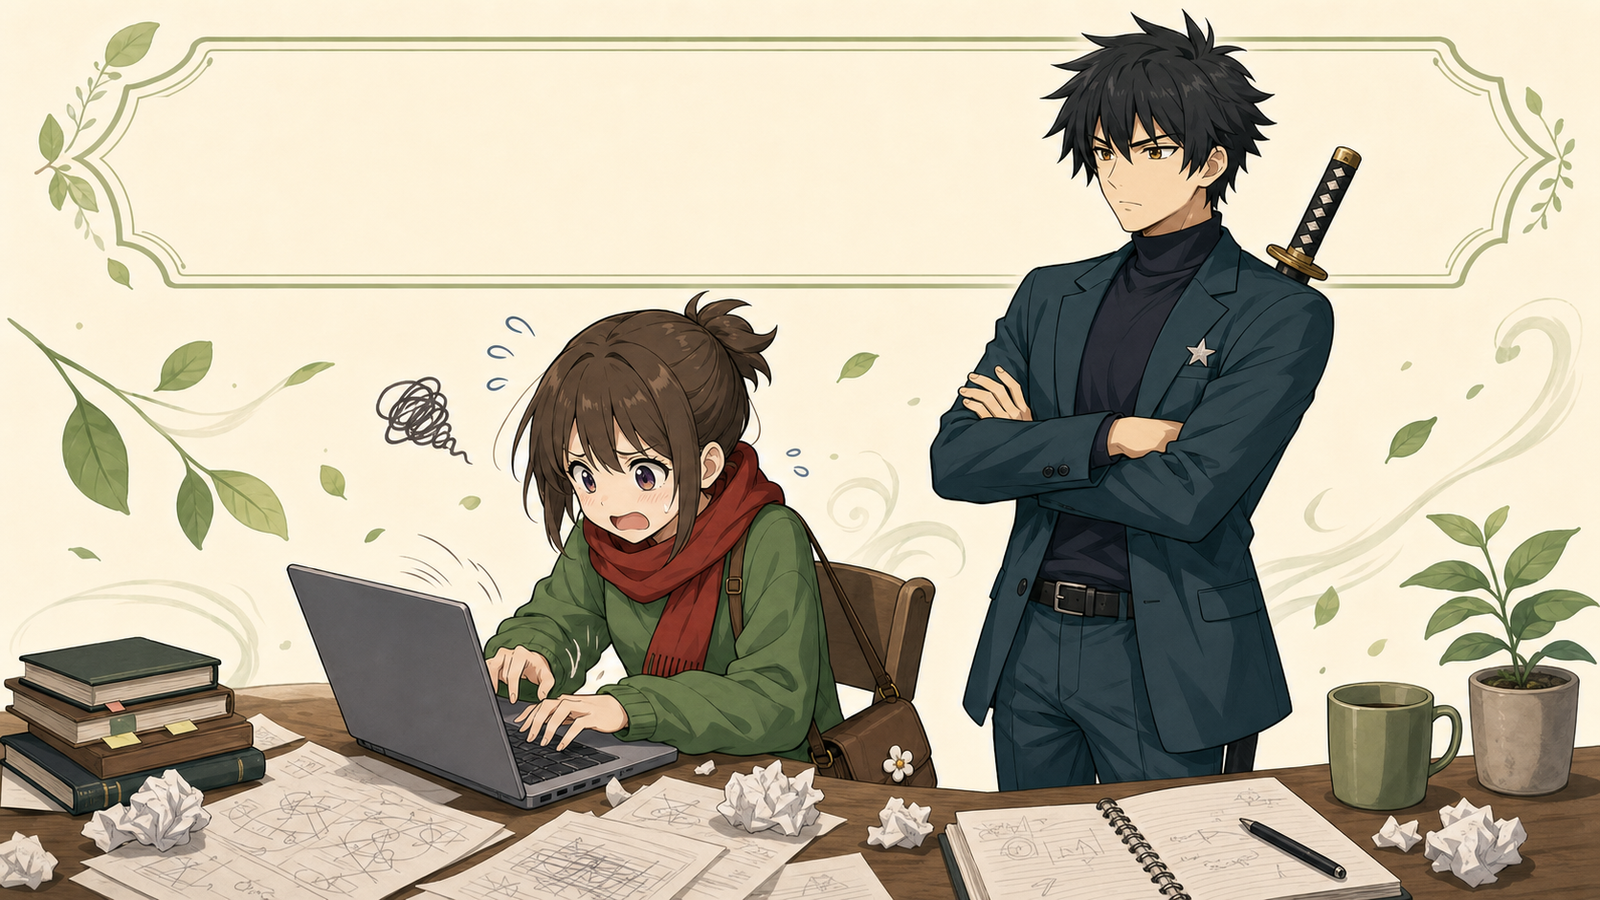
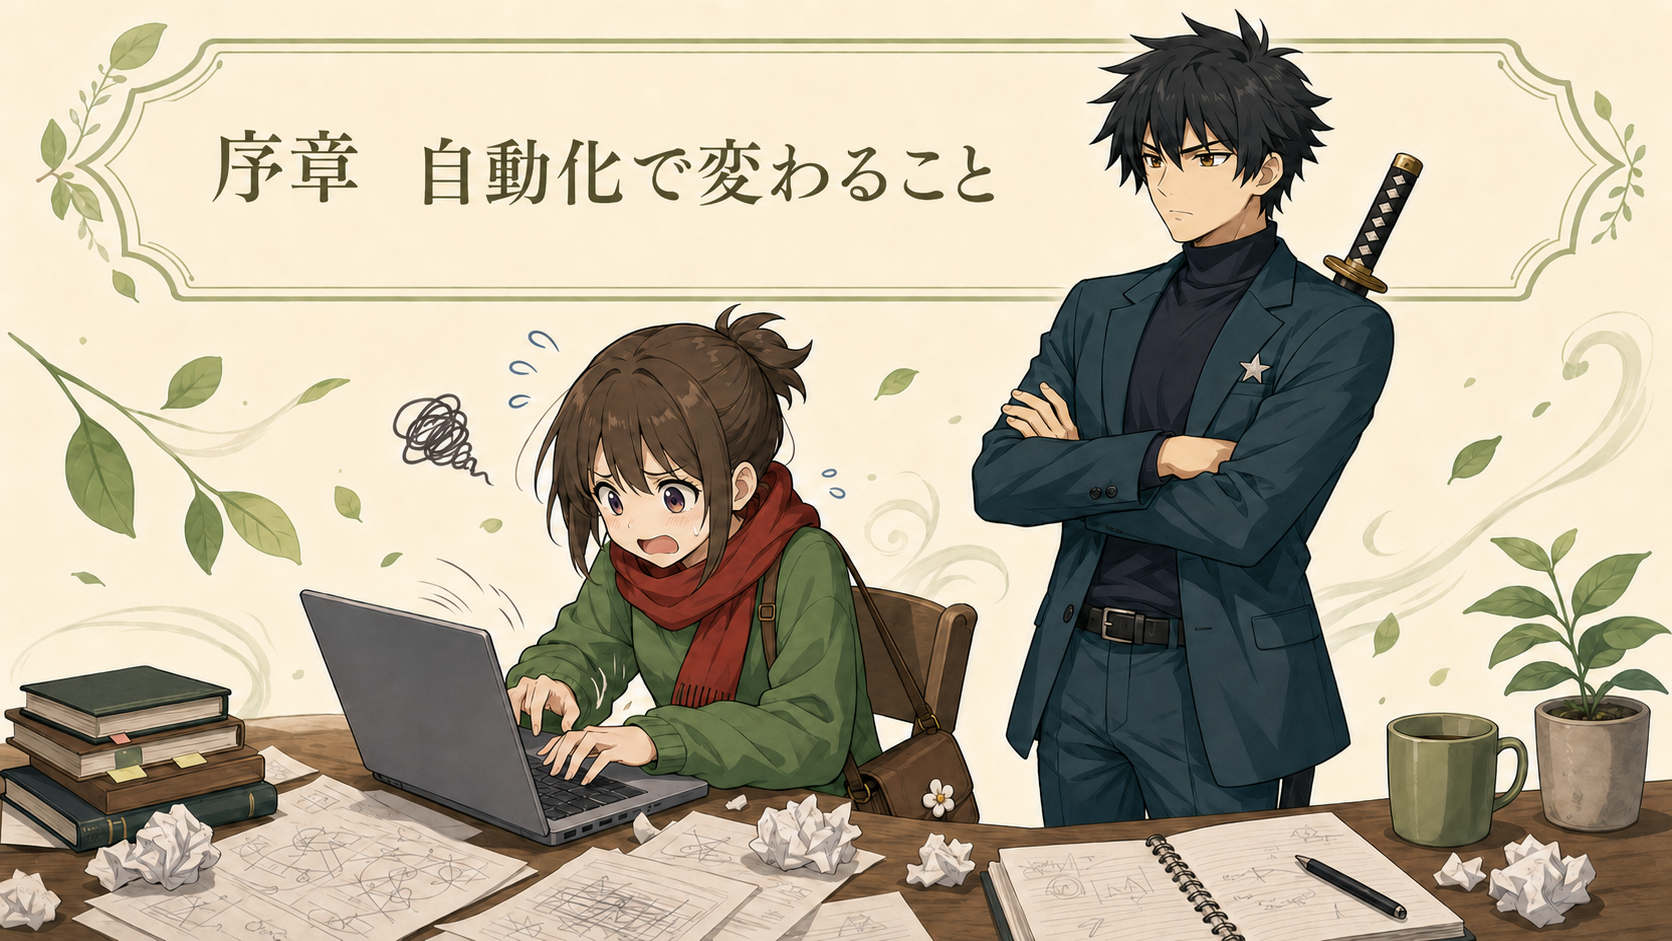
前半章扉絵を最新画像に戻す

diff --git a/textbook.html b/textbook.html
@@ -364,7 +364,7 @@
 <main>
 <section class="chapter" id="序章"><div class="chapter-label">序章</div><h1 class="chapter-title">自動化で変わること</h1><h1 id="序章-序章-昨日もやった「あの作業」を、自動化する話">序章　昨日もやった「あの作業」を、自動化する話</h1>
 <p>ステータス：✅ 実証済み</p>
-<p><img alt="序章：自動化で変わること" src="images/joshou/chapter-hero-joshou.png?v=20260603b" loading="lazy" decoding="async" /></p>
+<p><img alt="序章：自動化で変わること" src="images/joshou/chapter-hero-joshou.png?v=20260605-joshou" loading="lazy" decoding="async" /></p>
 <hr />
 <h2 id="序章-昨日もやった「あの作業」のチリツモ">昨日もやった「あの作業」のチリツモ...</h2>
 <p>管理画面を開く。<br />
@@ -744,7 +744,7 @@ AIに何を渡せばいいか。<br />
 まず環境構築を見ていきましょう。</p>
 <hr /></section>
 <section class="chapter" id="特典"><div class="chapter-label">購入特典</div><h1 class="chapter-title">5つの特典を受け取る</h1><h1 id="特典-購入特典">購入特典</h1>
-<p><img alt="購入特典：5つの特典を受け取る" src="images/joshou/chapter-hero-tokuten.png?v=20260603b" loading="lazy" decoding="async" /></p>
+<p><img alt="購入特典：5つの特典を受け取る" src="images/joshou/chapter-hero-tokuten.png?v=20260605-tokuten" loading="lazy" decoding="async" /></p>
 <hr />
 <p>ご購入ありがとうございます。</p>
 <p>以下の5つの特典を、<br />
@@ -1880,7 +1880,7 @@ AI がそれを「次の指示」<br />
 <hr /></details></section>
 <section class="chapter" id="第1章"><div class="chapter-label">第1章</div><h1 class="chapter-title">どんな作業が自動化できるか</h1><h1 id="第1章-第1章-自動化の5つの道具と5つの判定軸">第1章　自動化の5つの道具と5つの判定軸</h1>
 <p>ステータス：✅ 実証済み（実体験ベース）</p>
-<p><img alt="第1章：どんな作業が自動化できるか" src="images/ch01/ch01-automation-tools-hero.png?v=20260603b" loading="lazy" decoding="async" /></p>
+<p><img alt="第1章：どんな作業が自動化できるか" src="images/ch01/ch01-automation-tools-hero.png?v=20260605-ch01" loading="lazy" decoding="async" /></p>
 <hr />
 <h2 id="第1章-先に、どんな作業を自動化できるのか見ておきます">先に、どんな作業を自動化できるのか見ておきます</h2>
 <p><img alt="" src="images/ch01/naniwojidouka.png" loading="lazy" decoding="async" /></p>
@@ -2940,7 +2940,7 @@ Chrome で済みます。</p>
 <hr /></section>
 <section class="chapter" id="第2章"><div class="chapter-label">第2章</div><h1 class="chapter-title">AIに作らせる</h1><h1 id="第2章-第2章-playwright-で作る：録る・作る・直す・育てる">第2章　Playwright で作る：録る・作る・直す・育てる</h1>
 <p>ステータス：✅ 実証済み（実体験ベース）</p>
-<p><img alt="第2章：録る・作る・直す・育てる" src="images/ch02/ch02-playwright-4phase-hero.png?v=20260603b" loading="lazy" decoding="async" /></p>
+<p><img alt="第2章：録る・作る・直す・育てる" src="images/ch02/ch02-playwright-4phase-hero.png?v=20260605-ch02" loading="lazy" decoding="async" /></p>
 <hr />
 <h2 id="第2章-この章で渡すもの">この章で渡すもの</h2>
 <p>第1章で「<strong>5つの道具と判定軸</strong>」<br />
